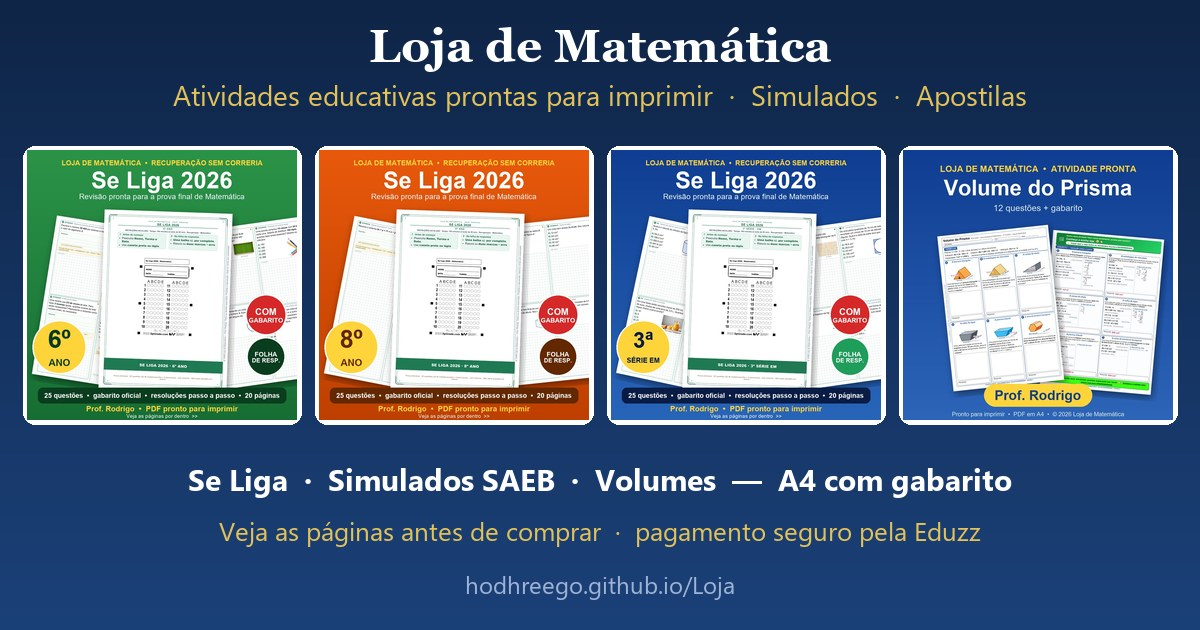
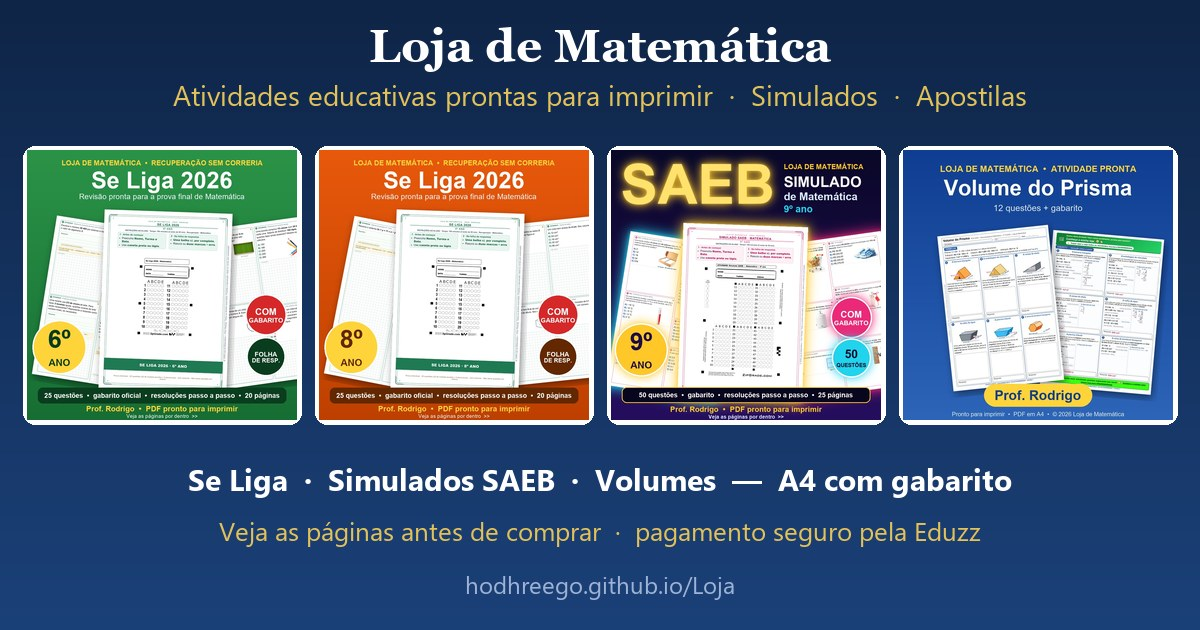
og.jpg com a capa nova do SAEB (v=4)

Changed region(s): [[0.4933, 0.2111, 0.74, 0.6937]]

diff --git a/index.html b/index.html
@@ -9,7 +9,7 @@
 <meta name="description" content="Atividades educativas prontas para imprimir (Se Liga, volumes, simulados SAEB) com gabarito, e apostilas para concursos como PSS SEED-PR 2027. Veja as páginas antes de comprar.">
 <meta property="og:title" content="Loja de Matemática — Atividades Educativas, Simulados e Apostilas">
 <meta property="og:description" content="Atividades educativas prontas para imprimir, simulados SAEB e apostilas para concursos (PSS SEED-PR 2027 e mais).">
-<meta property="og:image" content="https://hodhreego.github.io/Loja/og.jpg?v=3">
+<meta property="og:image" content="https://hodhreego.github.io/Loja/og.jpg?v=4">
 <meta property="og:image:width" content="1200">
 <meta property="og:image:height" content="630">
 <meta property="og:type" content="website">

diff --git a/capa_saeb_site.py b/capa_saeb_site.py
@@ -5,7 +5,8 @@ import os, fitz
 from bs4 import BeautifulSoup
 from PIL import Image, ImageDraw, ImageFont, ImageFilter, ImageChops
 B = r'A:\Claude.ai\Materiais\Matematica\Simulados-SAEB'; OUT = r'A:\Claude.ai\Loja\img'
-SER = {'9': (B + r'\9-ano\simulado-saeb-matematica-9-ano', '9º', 'ANO', '9º ano'),
+SER = {'5': (os.path.join(B, '5-ano', 'simulado-saeb-matematica-5ano'), '5º', 'ANO', '5º ano'),
+       '9': (B + r'\9-ano\simulado-saeb-matematica-9-ano', '9º', 'ANO', '9º ano'),
        '3em': (B + r'\3-ano-EM\simulado-saeb-matematica-3-ano-em', '3ª', 'SÉRIE EM', '3ª série EM')}
 S = 1000; GOLD = (255, 200, 40); CY = (34, 211, 238); MG = (236, 40, 120)
 def F(sz): return ImageFont.truetype('C:/Windows/Fonts/arialbd.ttf', sz)
@@ -58,7 +59,11 @@ def gerar(slug):
     d.text((500, 907), '50 questões  •  gabarito  •  resoluções passo a passo  •  %d páginas' % len(doc), font=F(25), fill='white', anchor='mm')
     d.text((500, 960), 'Prof. Rodrigo  •  PDF pronto para imprimir', font=F(28), fill=GOLD, anchor='mm')
     d.text((500, 988), 'Veja as páginas por dentro  >>', font=F(19), fill=(220, 232, 255), anchor='mm')
-    c = bg.convert('RGB'); c.save(os.path.join(OUT, 'saeb-%s-1.jpg' % slug), quality=92); c.save(os.path.join(OUT, 'saeb-%s-1.webp' % slug), quality=88)
+    c = bg.convert('RGB')
+    pasta = {'5': '5-ano', '9': '9-ano', '3em': '3-ano-EM'}[slug]   # copia p/ catalogo WhatsApp (1a imagem, sem faixa)
+    w = os.path.join(B, pasta, 'whatsapp'); os.makedirs(w, exist_ok=True); c.save(os.path.join(w, '01-capa.jpg'), quality=92)
+    if slug != '5':   # 5o ano nao esta no site
+        c.save(os.path.join(OUT, 'saeb-%s-1.jpg' % slug), quality=92); c.save(os.path.join(OUT, 'saeb-%s-1.webp' % slug), quality=88)
     print('ok', slug, q1, q2, len(doc))
 if __name__ == '__main__':
     import sys

diff --git a/build_loja.py b/build_loja.py
@@ -72,7 +72,7 @@ HTML = r'''<!DOCTYPE html>
 <meta name="description" content="Atividades educativas prontas para imprimir (Se Liga, volumes, simulados SAEB) com gabarito, e apostilas para concursos como PSS SEED-PR 2027. Veja as páginas antes de comprar.">
 <meta property="og:title" content="Loja de Matemática — Atividades Educativas, Simulados e Apostilas">
 <meta property="og:description" content="Atividades educativas prontas para imprimir, simulados SAEB e apostilas para concursos (PSS SEED-PR 2027 e mais).">
-<meta property="og:image" content="https://hodhreego.github.io/Loja/og.jpg?v=3">
+<meta property="og:image" content="https://hodhreego.github.io/Loja/og.jpg?v=4">
 <meta property="og:image:width" content="1200">
 <meta property="og:image:height" content="630">
 <meta property="og:type" content="website">

diff --git a/gerar_og.py b/gerar_og.py
@@ -3,7 +3,7 @@
 import os
 from PIL import Image, ImageDraw, ImageFont
 HERE = os.path.dirname(os.path.abspath(__file__))
-CAPAS = [('se-liga-6',1), ('se-liga-8',1), ('se-liga-3em',1), ('volume-prisma',1)]
+CAPAS = [('se-liga-6',1), ('se-liga-8',1), ('saeb-9',1), ('volume-prisma',1)]
 W, H = 1200, 630
 bg = Image.new('RGB', (W, H), '#0f2547')
 d = ImageDraw.Draw(bg)
